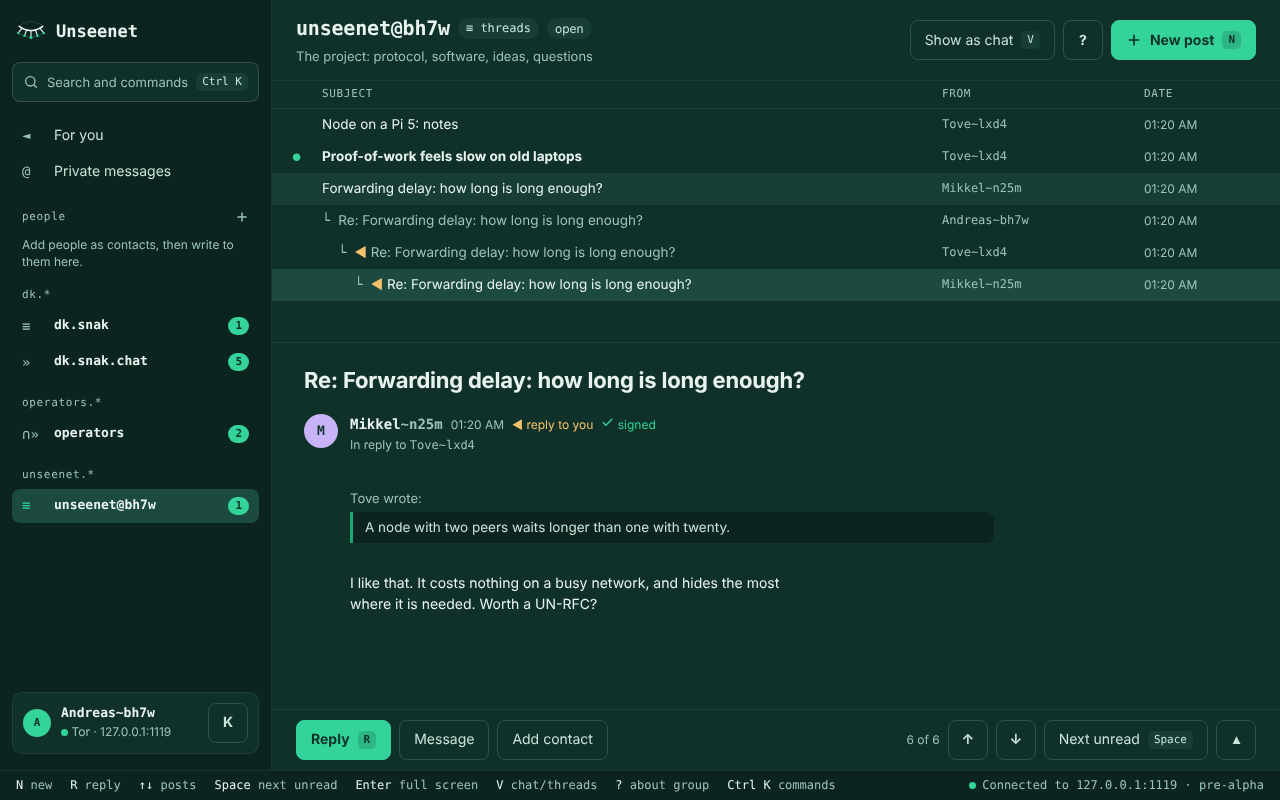
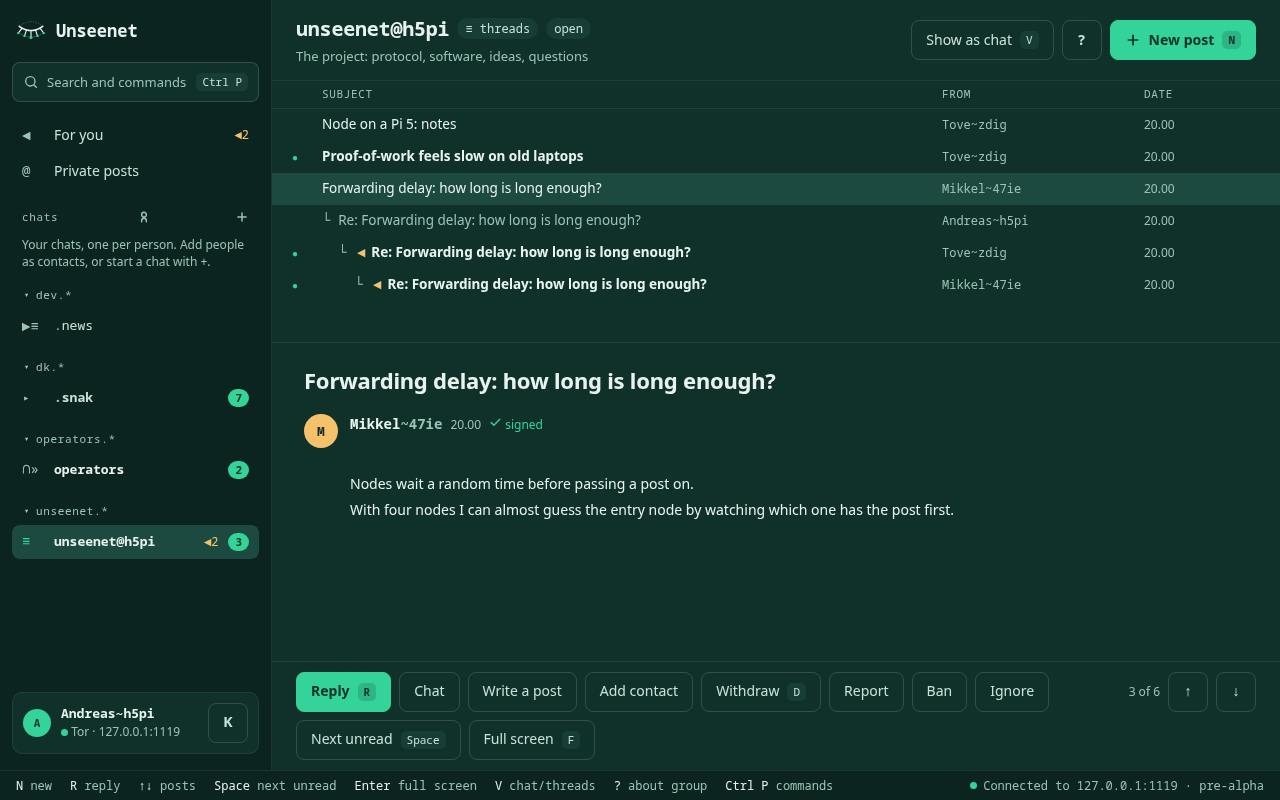
Docs and landing page: the graphical client first, and Running an entrance (#321) (#322)
Claude-Session: https://claude.ai/code/session_01D8pnKvCBrXijGBSSqn4fA5

diff --git a/pages/stylesheets/home.css b/pages/stylesheets/home.css
@@ -104,6 +104,17 @@
   outline-offset: 3px;
 }
 
+/* the terminal client, and running a node or an entrance: there, but quieter */
+.md-typeset .un-alt {
+  margin: 0.9rem 0 0;
+  font-size: 0.74rem;
+  color: rgba(232, 243, 239, 0.75);
+}
+.md-typeset .un-alt a { color: var(--un-paper); text-decoration: underline; text-underline-offset: 3px; }
+.md-typeset .un-alt a:hover { color: var(--un-green); }
+.md-typeset h2.un-term-head { margin: 2.2rem 0 0.3rem; font-size: 1.05rem; }
+.md-typeset .un-term-lede { margin: 0 0 1rem; color: var(--md-default-fg-color--light); font-size: 0.78rem; }
+
 .md-typeset .un-status {
   margin: 1.6rem 0 0;
   padding-top: 0.9rem;

diff --git a/pages/index.md b/pages/index.md
@@ -26,10 +26,14 @@ stick: no installation, no account, nothing left behind.
 </p>
 
 <div class="un-actions">
-  <a class="un-button un-button--primary" href="portable/">Portable (Linux, macOS, Windows) · Terminal</a>
-  <a class="un-button" href="bootable/">Bootable (USB, SSD etc.) · Terminal</a>
-  <a class="un-button" href="node/install/">Run a node</a>
+  <a class="un-button un-button--primary" href="graphical/#portable">Portable (Linux, macOS, Windows)</a>
+  <a class="un-button" href="graphical/#bootable">Bootable (USB, SSD etc.)</a>
+  <a class="un-button" href="web/">In your browser</a>
 </div>
+
+<p class="un-alt">Prefer the keyboard? <a href="portable/">The terminal client</a>, portable or
+<a href="bootable/">bootable</a>. Keep the network going: <a href="node/install/">run a node</a> ·
+<a href="entrance/">run an entrance</a>.</p>
 
 <p class="un-status">
 <strong>Pre-alpha.</strong> The protocol may still change, test nodes may be
@@ -38,6 +42,34 @@ protect anyone yet.
 </p>
 
 </div>
+
+<section class="un-web" aria-labelledby="web-teaser">
+  <div class="un-web__text">
+    <p class="un-web__kicker">The graphical client</p>
+    <h2 id="web-teaser" class="un-web__title">Unseenet in a window - or in your browser.</h2>
+    <p>Threads you click through, chat that looks like chat, your private posts
+    and contacts, and the groups you run. It comes as a <strong>Portable</strong>
+    for Linux, macOS and Windows that you unzip and start, as a
+    <strong>Bootable</strong> stick that starts full screen and runs from memory,
+    and <strong>in your browser</strong>: open
+    <a href="https://entrance.unseenet.net/">entrance.unseenet.net</a>, also on
+    a phone or a tablet, with nothing to install.</p>
+    <p class="un-web__note">In a browser you can read, but not yet post on nodes
+    from 0.4 on: that comes when key ripening runs in the browser.</p>
+    <p class="un-web__links"><a href="graphical/">The graphical client</a> · <a href="web/">In your browser</a> · <a href="https://github.com/unseenet/unseenet-gui/releases/latest">Downloads</a></p>
+  </div>
+  <div class="un-web__shots">
+    <img class="un-web__main" src="img/web-threads.png" width="1280" height="800" loading="lazy"
+         alt="The graphical client showing a discussion group: the thread as a tree, and the selected post below it with Reply and the post's tools">
+    <img class="un-web__inset" src="img/web-chat.png" width="1200" height="750" loading="lazy"
+         alt="The graphical client showing a chat group with chat bubbles and a message bar">
+  </div>
+</section>
+
+<h2 class="un-term-head" id="terminal">Prefer the keyboard? The terminal client</h2>
+
+<p class="un-term-lede">The same network, groups and vault in a terminal: a newsreader
+in the old style, fast on any machine. It shares a stick and a vault with the graphical client.</p>
 
 <div class="un-recordings">
 
@@ -75,27 +107,6 @@ protect anyone yet.
 
 </div>
 
-<section class="un-web" aria-labelledby="web-teaser">
-  <div class="un-web__text">
-    <p class="un-web__kicker">Preview</p>
-    <h2 id="web-teaser" class="un-web__title">Prefer a mouse? There's a graphical client too.</h2>
-    <p>The graphical client is Unseenet in a window: the same groups, keys and vault,
-    with threads you can click through and chat that looks like chat. It comes
-    as a <strong>Portable</strong> (Linux, macOS, Windows), a
-    <strong>Bootable</strong> that starts full screen - and <strong>on the web</strong>:
-    open <a href="https://entrance.unseenet.net/">entrance.unseenet.net</a> in any browser,
-    also on a phone or a tablet, with nothing to install.</p>
-    <p class="un-web__note">It is newer than the terminal client and only has
-    development builds so far.</p>
-    <p class="un-web__links"><a href="graphical/">The graphical client</a> · <a href="web/">On the web</a> · <a href="https://github.com/unseenet/unseenet-gui/releases/tag/dev">Development builds</a></p>
-  </div>
-  <div class="un-web__shots">
-    <img class="un-web__main" src="img/web-threads.png" width="1280" height="800" loading="lazy"
-         alt="The graphical client showing a discussion group: the thread as a tree, and the selected post below it with a quote and a Reply button">
-    <img class="un-web__inset" src="img/web-chat.png" width="1200" height="750" loading="lazy"
-         alt="The graphical client showing a chat group with chat bubbles and a message bar">
-  </div>
-</section>
 
 ## How it fits together
 
@@ -195,7 +206,7 @@ that does all of it, in one program, without an account, over Tor.</p>
 <span><svg class="un-ic n" width="16" height="16" aria-hidden="true"><use href="#un-i-no"/></svg> No</span></p>
 
 <div class="un-cmp__cta">
-  <a class="un-button un-button--primary" href="portable/">Try it now</a>
+  <a class="un-button un-button--primary" href="graphical/">Try it now</a>
   <a class="un-button" href="why/">Why Unseenet - and what it costs</a>
 </div>
 
@@ -211,10 +222,10 @@ Pick what you want to do. Each path lists the pages in the order to read them.
   <h3 class="un-path__title">Read and post</h3>
   <p class="un-path__lede">Get Unseenet running and join the conversation. Tor is included.</p>
   <ol class="un-path__steps">
-    <li><span class="un-path__pick">Terminal:</span> <a href="portable/">Portable</a> <span class="un-or">or</span> <a href="bootable/">Bootable</a><br>
-        <span class="un-path__pick">Graphical</span> <span class="un-or">(preview)</span><span class="un-path__pick">:</span> <a href="graphical/#three-ways-to-run-it">Portable <span class="un-or">or</span> Bootable</a> <span class="un-or">or</span> <a href="web/">on the web</a> <span class="un-or">(phones, tablets too)</span></li>
-    <li><a href="client/#first-start">First start</a>: your vault, a name, a node</li>
-    <li>Using it: <a href="client/">the terminal client</a> <span class="un-or">or</span> <a href="graphical/">the graphical client</a></li>
+    <li><a href="graphical/#portable">Portable</a> <span class="un-or">or</span> <a href="graphical/#bootable">Bootable</a> <span class="un-or">or</span> <a href="web/">in your browser</a> <span class="un-or">(phones, tablets too)</span><br>
+        <span class="un-path__pick">Terminal:</span> <a href="portable/">Portable</a> <span class="un-or">or</span> <a href="bootable/">Bootable</a></li>
+    <li><a href="graphical/#first-start">First start</a>: your vault, a name, a node</li>
+    <li>Using it: <a href="graphical/">the graphical client</a> <span class="un-or">or</span> <a href="client/">the terminal client</a></li>
     <li><a href="updating/">Updating</a></li>
   </ol>
   <p class="un-path__more">Also: <a href="other-clients/">other newsreaders</a> · <a href="tor/">Tor and Tails</a></p>
@@ -229,6 +240,17 @@ Pick what you want to do. Each path lists the pages in the order to read them.
     <li><a href="node/configuration/">Configuration</a></li>
     <li><a href="node/peering/">Peering</a> with other nodes</li>
     <li><a href="node/operations/">Operations</a> and the <a href="node/monitor/">monitor</a></li>
+  </ol>
+</section>
+
+<section class="un-path">
+  <h3 class="un-path__title">Run an entrance</h3>
+  <p class="un-path__lede">Let browsers in, and make Unseenet harder to block. A free cloud VM is enough.</p>
+  <ol class="un-path__steps">
+    <li><a href="entrance/responsibility/">Your responsibility</a>: read this first</li>
+    <li><a href="entrance/">Installation</a>: one command, HTTPS included</li>
+    <li><a href="entrance/settings/">Settings</a> and <a href="entrance/certificates/">certificates</a></li>
+    <li><a href="entrance/updates/">New versions, the release mirror, and when you are blocked</a></li>
   </ol>
 </section>
 
